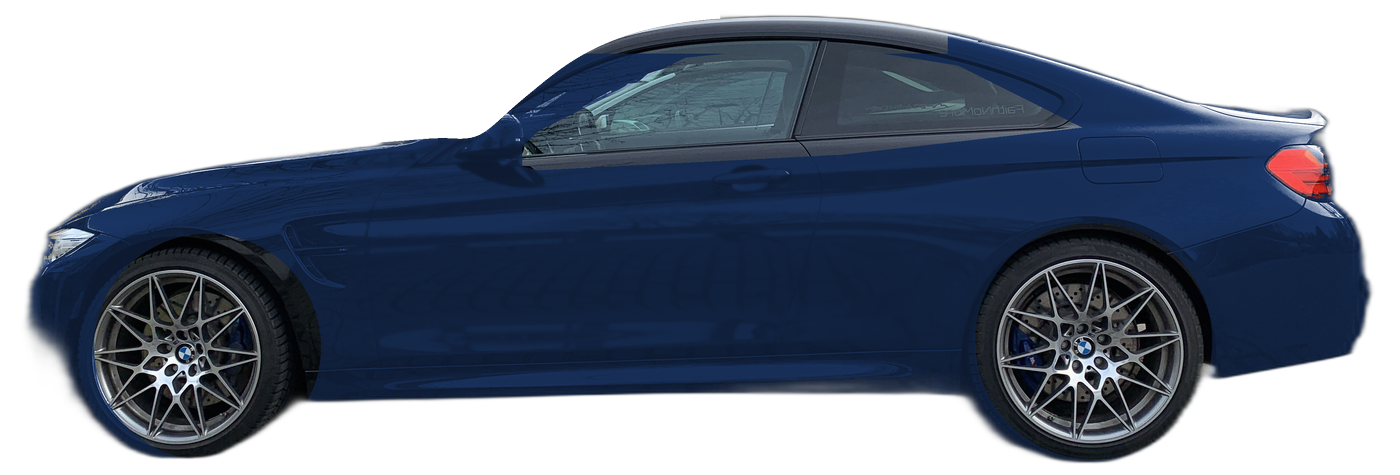
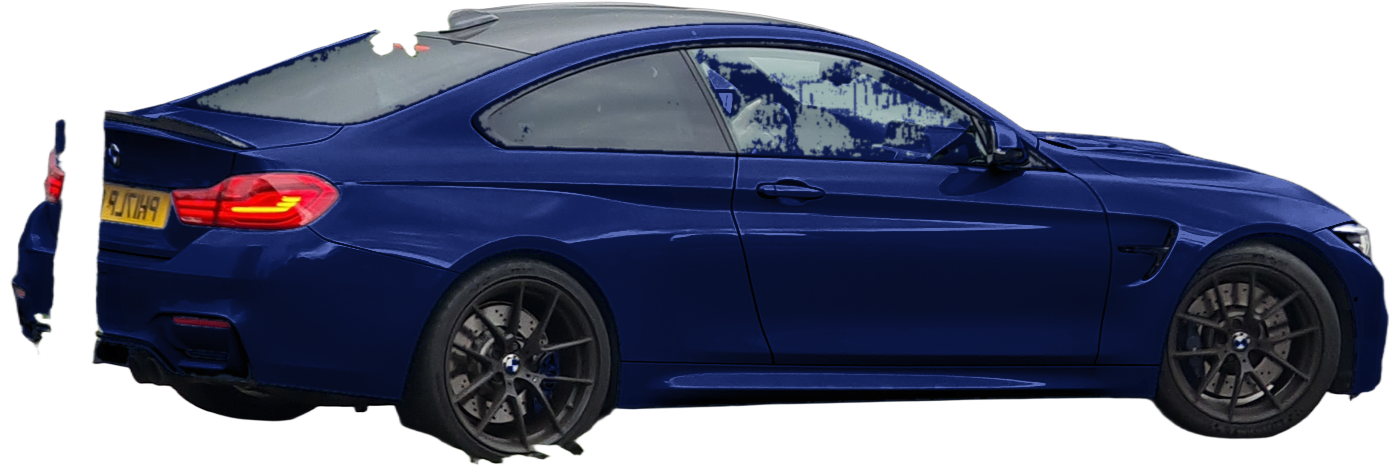
feat(tooling): upgrade vehicle cutout pipeline to BiRefNet with Mac GPU acceleration

diff --git a/frontend/src/lib/vehicleStyle.ts b/frontend/src/lib/vehicleStyle.ts
@@ -460,7 +460,7 @@ function parseHexRgb(hex: string): [number, number, number] | null {
   return null
 }
 
-export const VEHICLE_IMAGE_CACHE_VERSION = '20261107v2'
+export const VEHICLE_IMAGE_CACHE_VERSION = '20261107_birefnet'
 
 /**
  * Resolves color-accurate, transparent cut-out photograph for the 2018 Mercedes-Benz E400 Coupe.

diff --git a/scripts/tooling/birefnet_segment.py b/scripts/tooling/birefnet_segment.py
@@ -1,0 +1,127 @@
+#!/usr/bin/env python3
+"""
+High-Resolution Vehicle Background Removal & Thumbnail Pipeline using BiRefNet.
+Accelerated via Apple Silicon Mac GPU (MPS) or CUDA when available.
+
+Usage:
+  # Single image from local file or web URL
+  uv run --with transformers --with torch --with torchvision --with pillow --with timm --with einops --with kornia \
+    scripts/tooling/birefnet_segment.py --input "path/or/url.jpg" --output "output.png" --facing-left
+
+  # Or process batch:
+  uv run --with transformers --with torch --with torchvision --with pillow --with timm --with einops --with kornia \
+    scripts/tooling/birefnet_segment.py --batch batch.json
+"""
+
+import argparse
+import os
+import sys
+import time
+import urllib.request
+import numpy as np
+from PIL import Image
+
+try:
+    import torch
+    from torchvision import transforms
+    from transformers import AutoModelForImageSegmentation
+except ImportError:
+    print("Error: PyTorch and Transformers required. Run with:")
+    print("  uv run --with transformers --with torch --with torchvision --with pillow --with timm --with einops --with kornia python ...")
+    sys.exit(1)
+
+CANVAS_WIDTH = 1400
+CANVAS_HEIGHT = 475
+TARGET_VEHICLE_WIDTH = 1380
+BASELINE_MARGIN_BOTTOM = 10
+
+
+def get_device():
+    if torch.backends.mps.is_available():
+        return torch.device("mps")
+    if torch.cuda.is_available():
+        return torch.device("cuda")
+    return torch.device("cpu")
+
+
+def load_model(device):
+    print(f"Loading BiRefNet on {device}...")
+    model = AutoModelForImageSegmentation.from_pretrained("ZhengPeng7/BiRefNet", trust_remote_code=True)
+    model.to(device).float()
+    model.eval()
+    return model
+
+
+def segment_image(image: Image.Image, model, device) -> Image.Image:
+    w, h = image.size
+    transform = transforms.Compose([
+        transforms.Resize((1024, 1024)),
+        transforms.ToTensor(),
+        transforms.Normalize([0.485, 0.456, 0.406], [0.229, 0.224, 0.225])
+    ])
+    tensor = transform(image.convert("RGB")).unsqueeze(0).to(device).float()
+    with torch.no_grad():
+        preds = model(tensor)[-1].sigmoid().cpu()
+    pred = preds[0].squeeze()
+    mask = transforms.ToPILImage()(pred).resize((w, h), Image.Resampling.BILINEAR)
+
+    out = image.convert("RGBA").copy()
+    out.putalpha(mask)
+    return out
+
+
+def standardize_canvas(cutout: Image.Image, facing_left: bool = True) -> Image.Image:
+    arr = np.array(cutout)
+    alpha = arr[:, :, 3]
+    y_idxs, x_idxs = np.where(alpha > 15)
+    if len(y_idxs) == 0:
+        return cutout
+
+    crop = cutout.crop((x_idxs.min(), y_idxs.min(), x_idxs.max() + 1, y_idxs.max() + 1))
+    if facing_left:
+        crop = crop.transpose(Image.FLIP_LEFT_RIGHT)
+
+    scale = TARGET_VEHICLE_WIDTH / crop.width
+    new_w = TARGET_VEHICLE_WIDTH
+    new_h = int(crop.height * scale)
+    resized = crop.resize((new_w, new_h), Image.Resampling.LANCZOS)
+
+    canvas = Image.new("RGBA", (CANVAS_WIDTH, CANVAS_HEIGHT), (0, 0, 0, 0))
+    pos_x = (CANVAS_WIDTH - new_w) // 2
+    pos_y = CANVAS_HEIGHT - new_h - BASELINE_MARGIN_BOTTOM
+    canvas.paste(resized, (pos_x, max(0, pos_y)), resized)
+    return canvas
+
+
+def main():
+    parser = argparse.ArgumentParser(description="BiRefNet GPU Vehicle Cutout Pipeline")
+    parser.add_argument("--input", help="Image URL or local file path")
+    parser.add_argument("--output", help="Output PNG path")
+    parser.add_argument("--facing-left", action="store_true", help="Ensure vehicle faces left")
+    args = parser.parse_args()
+
+    if not args.input or not args.output:
+        parser.print_help()
+        sys.exit(1)
+
+    device = get_device()
+    model = load_model(device)
+
+    t0 = time.time()
+    if args.input.startswith("http://") or args.input.startswith("https://"):
+        req = urllib.request.Request(args.input, headers={"User-Agent": "Mozilla/5.0"})
+        with urllib.request.urlopen(req) as resp:
+            raw_img = Image.open(resp)
+    else:
+        raw_img = Image.open(args.input)
+
+    cutout = segment_image(raw_img, model, device)
+    canvas = standardize_canvas(cutout, facing_left=args.facing_left)
+
+    os.makedirs(os.path.dirname(os.path.abspath(args.output)), exist_ok=True)
+    canvas.save(args.output, optimize=True)
+    print(f"✓ Saved {args.output} in {time.time()-t0:.2f}s on {device}")
+
+
+if __name__ == "__main__":
+    main()
